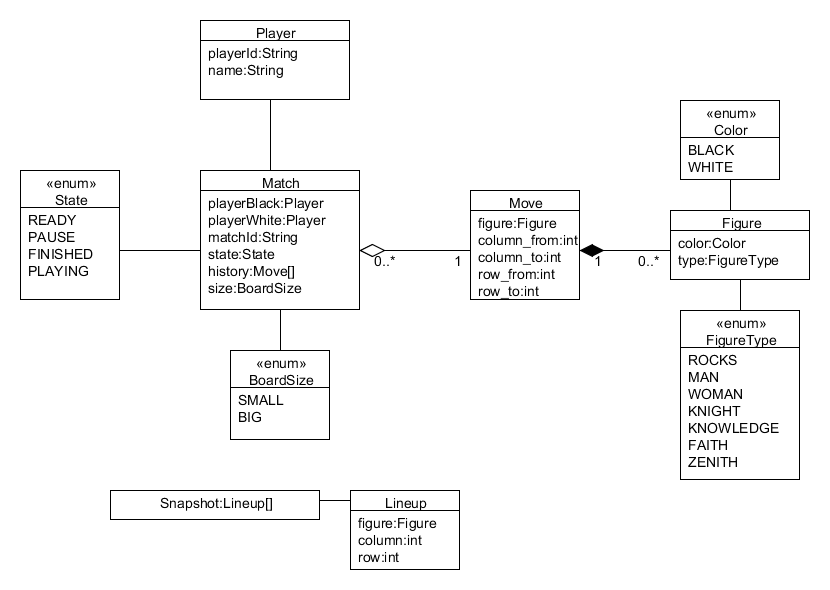
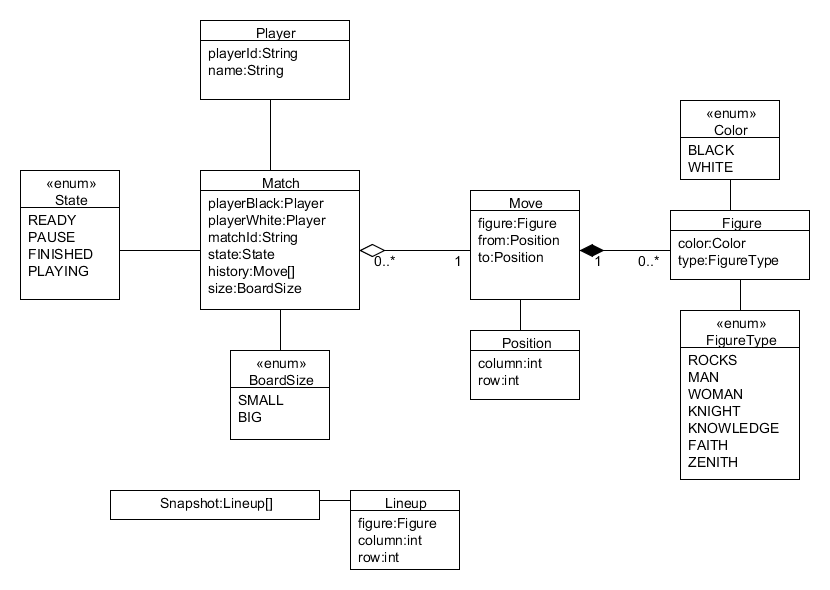
Update Model

Changed region(s): [[0.5723, 0.3966, 0.6928, 0.5186], [0.5723, 0.5492, 0.6627, 0.6712]]

diff --git a/main/server/model/model.js b/main/server/model/model.js
@@ -84,11 +84,38 @@ var Field = function (json) {
         this.figure = undefined;
     }
 
-    this.column = json.column;
-    this.row = json.row;
+    this.position = new Position(json.position);
 
     return this;
 }
+
+/**
+ * The Position Constructor. This represents a Position on the Board
+ * @param json
+ * @return {Position}
+ * @constructor
+ */
+var Position = function(json){
+    var column = json.column;
+    var row = json.row;
+    return this;
+}
+
+/**
+ * The Move constructor. This represents a Move on the Board in the History
+ * @param json
+ * @return {Move}
+ * @constructor
+ */
+var Move = function(json){
+    var json = json || 0;
+
+    var figure = new Figure(json.figure);
+    var from = new Position(json.from);
+    var to = new Position(json.to);
+    return this;
+}
+
 
 /**
  * The Snapshot constructor. This represents a single point in time of the match.
@@ -125,6 +152,9 @@ var Snapshot = function (json) {
         return undefined;
     };
 
+    this.getField = function(position){
+        return this.getField(position.column,position.row);
+    }
 
     /**
      * This method can be used for debugging. It prints the current board
@@ -214,10 +244,10 @@ var Match = function (json) {
     this.state = json.state || State.READY;
 
     this.history = new Array();
-    // for every json-entry create a snapshot instance.
+    // for every json-entry create a move instance.
     if (Array.isArray(json.history)) {
         json.history.forEach(function (entry) {
-            this.history.push(new Snapshot(entry));
+            this.history.push(new Move(entry));
         }, this);
     }
 
@@ -227,16 +257,30 @@ var Match = function (json) {
         this.size = BoardSize.SMALL;
     }
 
+
+    this.generateSnapshot = function(number){
+        if(!this.history || this.history.length < number ){
+            throw new Error("There is no move in the history for this number.");
+        }
+        var modelFactory = require("./model.factory");
+        var snapshot = modelFactory.createEmptyMatch(this.size);
+
+        for(var i = 0; i < number; i++){
+            var move = this.history[i];
+            var fieldFrom = snapshot.getField(move.from);
+            var fieldTo = snapshot.getField(move.to);
+            if(fieldFrom.figure != move.figure) throw new Error("This Move was invalid!");
+            fieldTo.figure = fieldFrom.figure;
+            fieldFrom.figure = undefined;
+        }
+        return snapshot;
+    }
+
     /**
      * Returns the current snapshot of this match.
      */
     this.getCurrentSnapshot = function(){
-
-        if(!this.history || this.history.length === 0){
-            throw new Error("There is no current snapshot in the history.");
-        }
-
-        return this.history[this.history.length -1];
+        return this.generateSnapshot(this.history.length);
     }
 
     return this;
@@ -252,3 +296,5 @@ module.exports.Field = Field;
 module.exports.Snapshot = Snapshot;
 module.exports.Player = Player;
 module.exports.Match = Match;
+module.exports.Position = Position;
+module.exports.Move = Move;

diff --git a/main/server/model/model.test.js b/main/server/model/model.test.js
@@ -14,6 +14,8 @@ var Player = model.Player;
 var State = model.State;
 var Match = model.Match;
 var Snapshot = model.Snapshot;
+var Position = model.Position;
+var Move = model.Move;
 
 var modelFactory = require("./model.factory");
 
@@ -71,22 +73,20 @@ describe("Creation of Match", function () {
             size: 7,
             history: [
                 {
-                    board: [
+                    move: [
                         {
                             figure: {
                                 color: "black",
                                 type: "rocks"
                             },
-                            column: 0,
-                            row: 0
-                        },
-                        {
-                            column: 0,
-                            row: 1
-                        },
-                        {
-                            column: 1,
-                            row: 1
+                            from: {
+                                column: 0,
+                                row: 0
+                                },
+                            to: {
+                                column: 1,
+                                row: 1
+                            }
                         }
                     ]
                 }
@@ -118,17 +118,17 @@ describe("Creation of Match", function () {
 
         var rocks = new Figure({color: "black", type: "rocks"});
 
-        var snapshot = match.history[0];
-        assert.ok(snapshot);
-        assert.isArray(snapshot.board);
-        assert.equal(snapshot.board.length, 3);
+        var move = match.history;
+        assert.ok(move);
+        assert.isArray(move);
+        assert.equal(move.length, 1);
 
-        assert.deepEqual(snapshot.board[0], new Field({figure: rocks, column: 0, row: 0}));
-        assert.deepEqual(snapshot.board[1], new Field({column: 0, row: 1}));
-        assert.deepEqual(snapshot.board[2], new Field({column: 1, row: 1}));
+        assert.deepEqual(move[0], new Move({figure: rocks, from:{column: 0, row: 0},to:{column: 1, row: 1}}));
 
-        assert.instanceOf(snapshot.board[0].figure, Figure);
     });
+    assert.instanceOf(move[0].figure, Figure);
+    assert.instanceOf(move[0].from, Position);
+    assert.instanceOf(move[0].to, Position);
 
 });
 
